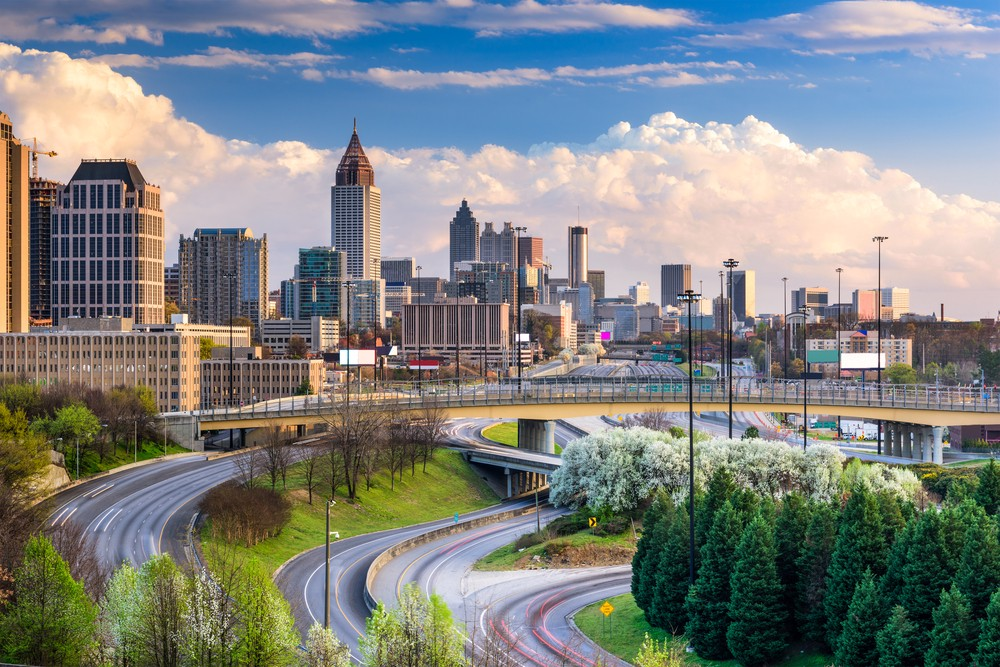
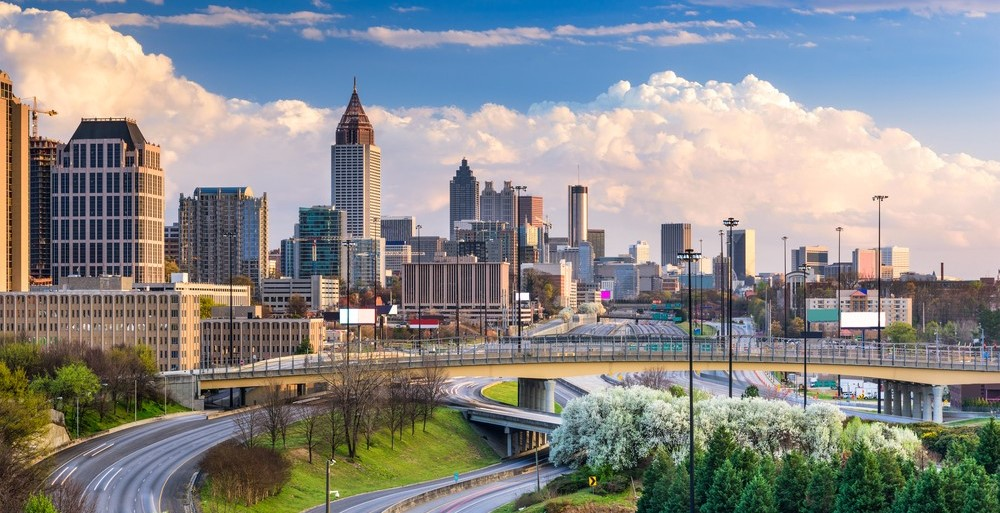
Changed homepage

diff --git a/public/js/search.js b/public/js/search.js
@@ -1,20 +1,29 @@
 const searchBtn = document.getElementById("search-addon");
 const inputEl = document.getElementById("searchProperty");
-const url = "https://api.mashvisor.com/v1.1/client/city/properties/georgia/";
+const url = "https://api.mashvisor.com/v1.1/client/city/properties/ga/";
+
 
 // Not working yet
 searchBtn.addEventListener("click", function () {
    let input = inputEl.value;
+
+   
+
+
+
     fetch(`${url}${input}`, {
         headers: {
             "Access-Control-Allow-Origin": "https://api.mashvisor.com",
-            "x-api-key": "e9fc1589-f4cd-49a7-bfbb-b81e88d78837",
+            "x-api-key": "f206ffc1-0ffa-4f45-b13c-826b47e7b298",
         },
-        mode: "no-cors"
+        accept: "*/*",
+        mode: "no-cors",
+        credentials: 'include',
+        connection: "keep-alive"
     })
-    .then(data => data.json())
-    .then(result => {
-        console.log(result);
+    .then(response => response.json())
+    .then(data => {
+        console.log(data);
     })
    console.log(input);
 })

diff --git a/public/css/style.css b/public/css/style.css
@@ -1,3 +1,4 @@
+
 .wrapper {
   display: flex;
   min-height: 100vh;
@@ -7,6 +8,7 @@
 #header {
   margin-bottom: 50px;
   font-size: 35px;
+  justify-content: center;
 }
 #sidebar {
   overflow: hidden;
@@ -23,16 +25,16 @@
 
 #sidebar a {
   color:white;
+  text-decoration: none;
 }
 
-
 #content {
-  background-color: #f0f2f2;
   flex-grow: 1;
   padding: 20px 50px 50px 70px;
-  margin: 60px;
+  margin: 80px;
   color: rgb(58, 57, 57);
   text-align: center;
+  margin: 20px;
 }
 
 .card {
@@ -49,4 +51,9 @@
 
 ul {
   padding: 0px;
+  
+}
+
+#atl {
+  height: 400px;
 }
